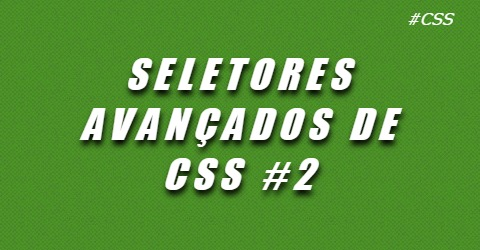
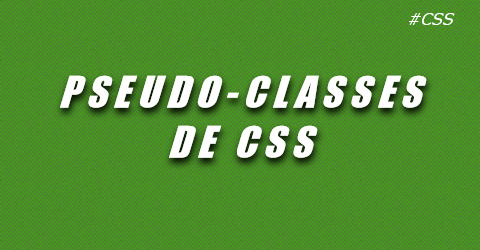
alterações segundo post de Seletores CSS

Changed region(s): [[0.125, 0.224, 0.9062, 0.812], [0.8438, 0.028, 0.9688, 0.112]]

diff --git a/_posts/2017-01-26-seletores-avancados-de-css-2.md b/_posts/2017-01-26-seletores-avancados-de-css-2.md
@@ -1,6 +1,6 @@
 ---
 layout: post
-title: "Seletores avançados de CSS #2"
+title: "Pseudo-classes de CSS"
 image: "/assets/seletores-avancados-de-css/cover2.jpg"
 date:   2017-01-25 08:00:00 -0200
 color_template: "css"
